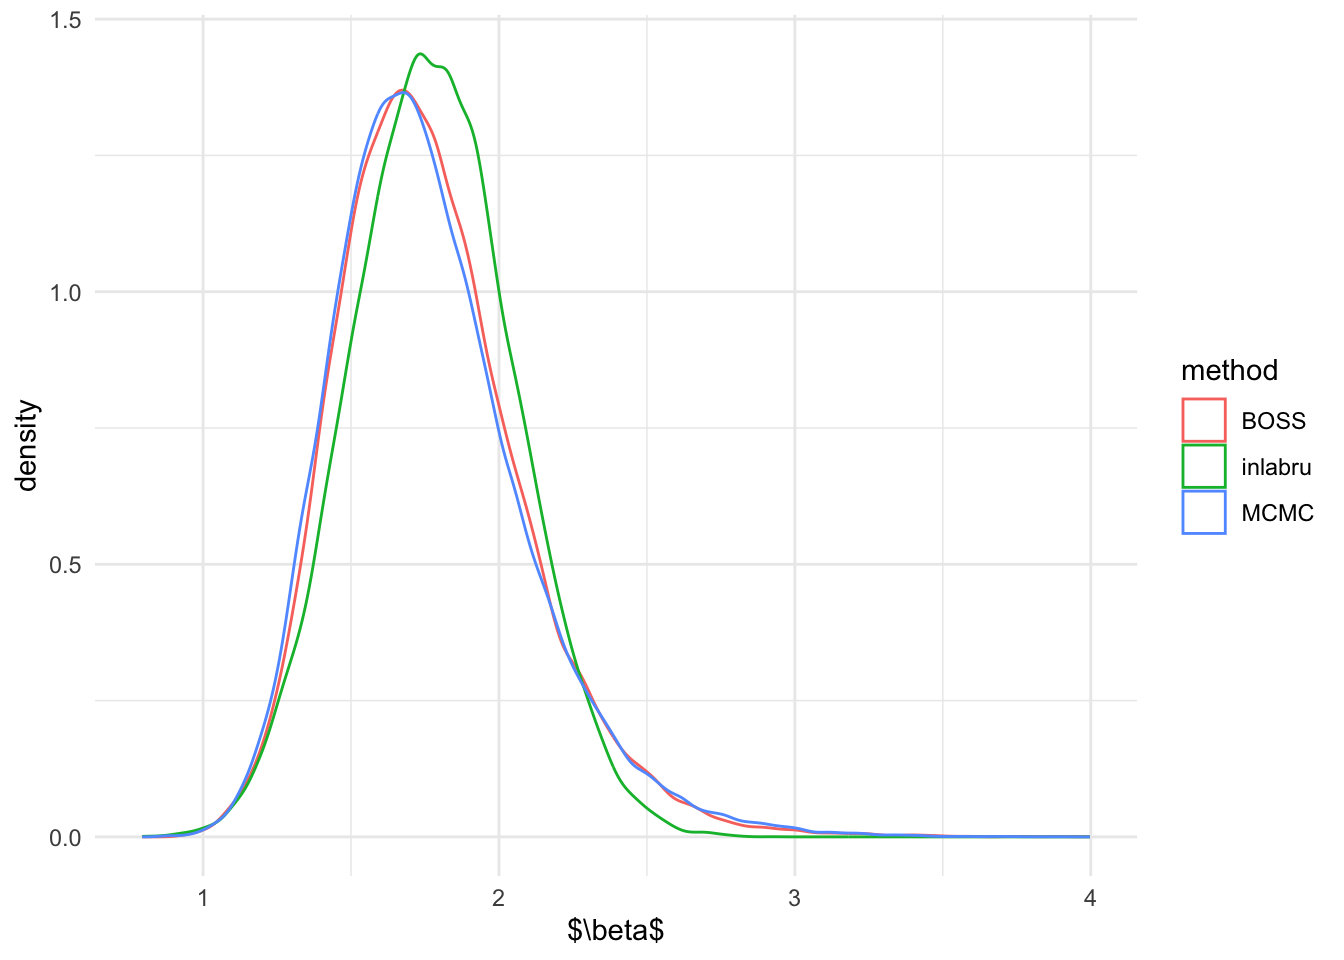
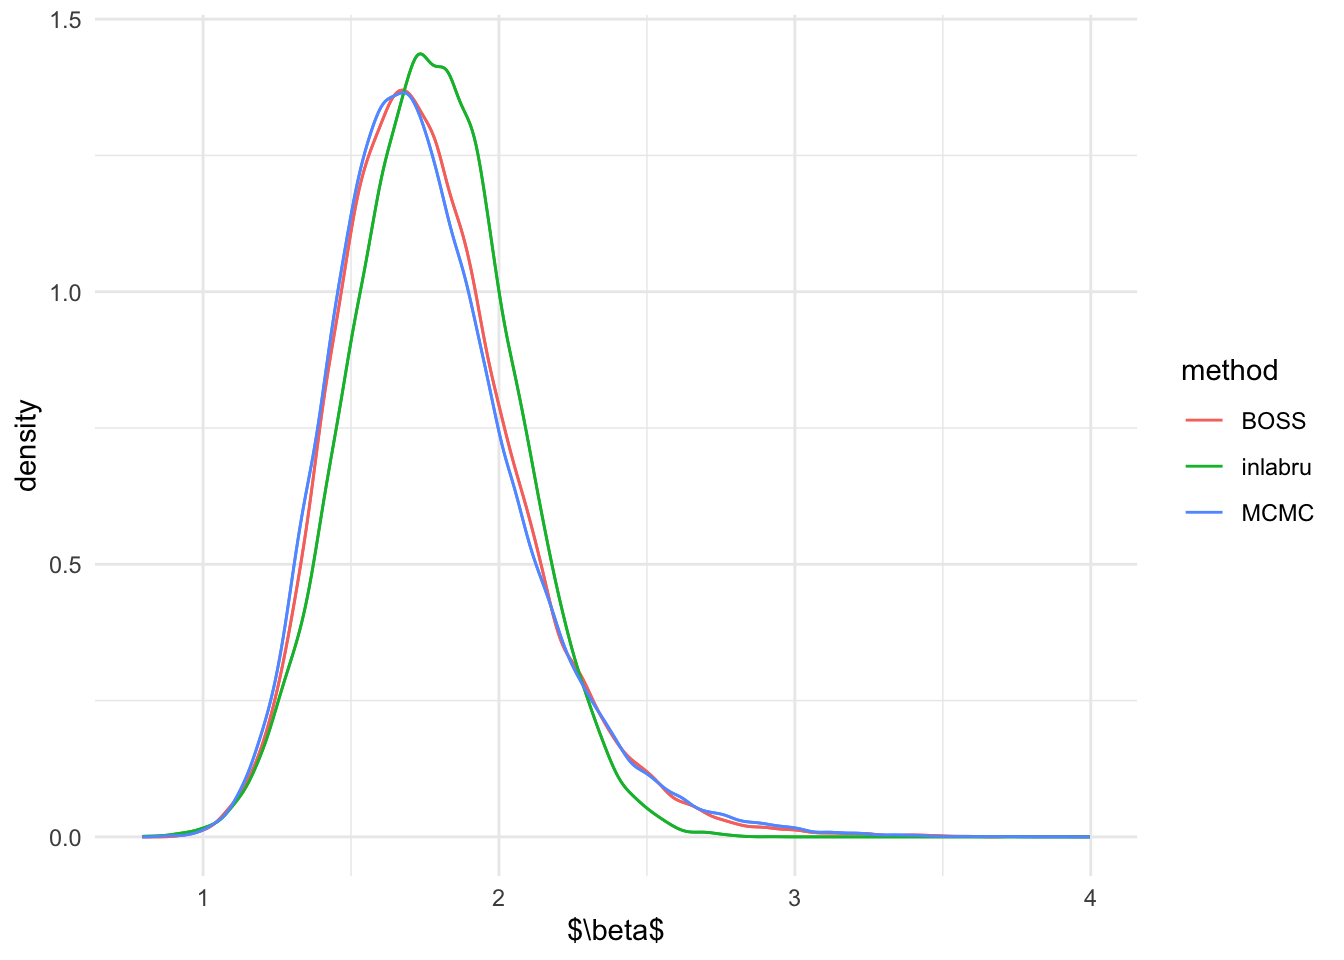
Build site.

diff --git a/docs/sim3.html b/docs/sim3.html
@@ -531,15 +531,15 @@ project makes it easier to run your code on other machines.</p>
 <div class="panel panel-default">
 <div class="panel-heading">
 <p class="panel-title">
-<a data-toggle="collapse" data-parent="#workflowr-checks" href="#strongRepositoryversionstrongahrefhttpsgithubcomAgueroZZBOSSwebsitetreec72ffd469fa4fa47b5e3c9f97cf1fa0dbcffad04targetblankc72ffd4a">
+<a data-toggle="collapse" data-parent="#workflowr-checks" href="#strongRepositoryversionstrongahrefhttpsgithubcomAgueroZZBOSSwebsitetree8f83f92d6843e2d8354a4853941f6b696d11c5b3targetblank8f83f92a">
 <span class="glyphicon glyphicon-ok text-success"
 aria-hidden="true"></span> <strong>Repository version:</strong>
-<a href="https://github.com/AgueroZZ/BOSS_website/tree/c72ffd469fa4fa47b5e3c9f97cf1fa0dbcffad04" target="_blank">c72ffd4</a>
+<a href="https://github.com/AgueroZZ/BOSS_website/tree/8f83f92d6843e2d8354a4853941f6b696d11c5b3" target="_blank">8f83f92</a>
 </a>
 </p>
 </div>
 <div
[2 lines of base64/hex data omitted]
 class="panel-collapse collapse">
 <div class="panel-body">
 <p>
@@ -549,7 +549,7 @@ reproducibility.
 </p>
 <p>
 The results in this page were generated with repository version
-<a href="https://github.com/AgueroZZ/BOSS_website/tree/c72ffd469fa4fa47b5e3c9f97cf1fa0dbcffad04" target="_blank">c72ffd4</a>.
+<a href="https://github.com/AgueroZZ/BOSS_website/tree/8f83f92d6843e2d8354a4853941f6b696d11c5b3" target="_blank">8f83f92</a>.
 See the <em>Past versions</em> tab to see a history of the changes made
 to the R Markdown and HTML files.
 </p>
@@ -568,6 +568,7 @@ Ignored files:
     Ignored:    .Rhistory
     Ignored:    .Rproj.user/
     Ignored:    analysis/.DS_Store
+    Ignored:    analysis/figure/
     Ignored:    data/.DS_Store
     Ignored:    data/dimension/
     Ignored:    data/sim3/
@@ -618,6 +619,40 @@ Message
 </tr>
 </thead>
 <tbody>
+<tr>
+<td>
+Rmd
+</td>
+<td>
+<a href="https://github.com/AgueroZZ/BOSS_website/blob/8f83f92d6843e2d8354a4853941f6b696d11c5b3/analysis/sim3.Rmd" target="_blank">8f83f92</a>
+</td>
+<td>
+david.li
+</td>
+<td>
+2025-05-09
+</td>
+<td>
+wflow_publish("analysis/sim3.Rmd")
+</td>
+</tr>
+<tr>
+<td>
+html
+</td>
+<td>
+<a href="https://rawcdn.githack.com/AgueroZZ/BOSS_website/acac9baaecf3ae772ff683dccc24e7ff823a432a/docs/sim3.html" target="_blank">acac9ba</a>
+</td>
+<td>
+david.li
+</td>
+<td>
+2025-05-09
+</td>
+<td>
+Build site.
+</td>
+</tr>
 <tr>
 <td>
 Rmd
@@ -1226,7 +1261,14 @@ beta_marginal &lt;- data.frame(beta = c(inla.samples.b, samples_BOSS_modal[,2], 
                                            length(samples_BOSS_modal[,2]),  
                                            length(MCMC_samp$b))))</code></pre>
 <p>Plot the marginal posterior densities</p>
-<pre class="r"><code>ggplot(R_marginal, aes(R)) + geom_density(aes(color = method)) + theme_minimal() + xlab(&#39;$R$&#39;)</code></pre>
+<pre class="r"><code>ggplot(R_marginal, aes(R)) + geom_density(aes(color = method), show_guide = F) +
+  stat_density(aes(x = R, colour = method),
+                  geom=&quot;line&quot;,position=&quot;identity&quot;) + theme_minimal() + xlab(&#39;$R$&#39;)</code></pre>
+<pre><code>Warning: The `show_guide` argument of `layer()` is deprecated as of ggplot2 2.0.0.
+ℹ Please use the `show.legend` argument instead.
+This warning is displayed once every 8 hours.
+Call `lifecycle::last_lifecycle_warnings()` to see where this warning was
+generated.</code></pre>
 <p><img src="figure/sim3.Rmd/unnamed-chunk-9-1.png" width="672" style="display: block; margin: auto;" /></p>
 <p>
 <button type="button" class="btn btn-default btn-xs btn-workflowr btn-workflowr-fig" data-toggle="collapse" data-target="#fig-unnamed-chunk-9-1">
@@ -1250,6 +1292,17 @@ Date
 </tr>
 </thead>
 <tbody>
+<tr>
+<td>
+<a href="https://github.com/AgueroZZ/BOSS_website/blob/acac9baaecf3ae772ff683dccc24e7ff823a432a/docs/figure/sim3.Rmd/unnamed-chunk-9-1.png" target="_blank">acac9ba</a>
+</td>
+<td>
+david.li
+</td>
+<td>
+2025-05-09
+</td>
+</tr>
 <tr>
 <td>
 <a href="https://github.com/AgueroZZ/BOSS_website/blob/1881d2e4f0846da200d63e9b3d9a53c84381925e/docs/figure/sim3.Rmd/unnamed-chunk-9-1.png" target="_blank">1881d2e</a>
@@ -1309,7 +1362,9 @@ david.li
 </table>
 </div>
 </div>
-<pre class="r"><code>ggplot(beta_marginal, aes(beta)) + geom_density(aes(color = method)) + theme_minimal() + xlab(&#39;$\\beta$&#39;)</code></pre>
+<pre class="r"><code>ggplot(beta_marginal, aes(beta)) + geom_density(aes(color = method), show_guide = F) +
+  stat_density(aes(x = beta, colour = method),
+                  geom=&quot;line&quot;,position=&quot;identity&quot;) + theme_minimal() + xlab(&#39;$\\beta$&#39;)</code></pre>
 <p><img src="figure/sim3.Rmd/unnamed-chunk-10-1.png" width="672" style="display: block; margin: auto;" /></p>
 <p>
 <button type="button" class="btn btn-default btn-xs btn-workflowr btn-workflowr-fig" data-toggle="collapse" data-target="#fig-unnamed-chunk-10-1">
@@ -1333,6 +1388,17 @@ Date
 </tr>
 </thead>
 <tbody>
+<tr>
+<td>
+<a href="https://github.com/AgueroZZ/BOSS_website/blob/acac9baaecf3ae772ff683dccc24e7ff823a432a/docs/figure/sim3.Rmd/unnamed-chunk-10-1.png" target="_blank">acac9ba</a>
+</td>
+<td>
+david.li
+</td>
+<td>
+2025-05-09
+</td>
+</tr>
 <tr>
 <td>
 <a href="https://github.com/AgueroZZ/BOSS_website/blob/1881d2e4f0846da200d63e9b3d9a53c84381925e/docs/figure/sim3.Rmd/unnamed-chunk-10-1.png" target="_blank">1881d2e</a>
@@ -1890,6 +1956,17 @@ Date
 <tbody>
 <tr>
 <td>
+<a href="https://github.com/AgueroZZ/BOSS_website/blob/acac9baaecf3ae772ff683dccc24e7ff823a432a/docs/figure/sim3.Rmd/unnamed-chunk-21-1.png" target="_blank">acac9ba</a>
+</td>
+<td>
+david.li
+</td>
+<td>
+2025-05-09
+</td>
+</tr>
+<tr>
+<td>
 <a href="https://github.com/AgueroZZ/BOSS_website/blob/1881d2e4f0846da200d63e9b3d9a53c84381925e/docs/figure/sim3.Rmd/unnamed-chunk-21-1.png" target="_blank">1881d2e</a>
 </td>
 <td>
@@ -1948,6 +2025,17 @@ Date
 <tbody>
 <tr>
 <td>
+<a href="https://github.com/AgueroZZ/BOSS_website/blob/acac9baaecf3ae772ff683dccc24e7ff823a432a/docs/figure/sim3.Rmd/unnamed-chunk-21-2.png" target="_blank">acac9ba</a>
+</td>
+<td>
+david.li
+</td>
+<td>
+2025-05-09
+</td>
+</tr>
+<tr>
+<td>
 <a href="https://github.com/AgueroZZ/BOSS_website/blob/1881d2e4f0846da200d63e9b3d9a53c84381925e/docs/figure/sim3.Rmd/unnamed-chunk-21-2.png" target="_blank">1881d2e</a>
 </td>
 <td>
@@ -1982,6 +2070,43 @@ p_b &lt;- p_b + geom_density(color = &#39;violet&#39;)
 
 p_b</code></pre>
 <p><img src="figure/sim3.Rmd/unnamed-chunk-21-3.png" width="672" style="display: block; margin: auto;" /></p>
+<p>
+<button type="button" class="btn btn-default btn-xs btn-workflowr btn-workflowr-fig" data-toggle="collapse" data-target="#fig-unnamed-chunk-21-3">
+Past versions of unnamed-chunk-21-3.png
+</button>
+</p>
+<div id="fig-unnamed-chunk-21-3" class="collapse">
+<div class="table-responsive">
+<table class="table table-condensed table-hover">
+<thead>
+<tr>
+<th>
+Version
+</th>
+<th>
+Author
+</th>
+<th>
+Date
+</th>
+</tr>
+</thead>
+<tbody>
+<tr>
+<td>
+<a href="https://github.com/AgueroZZ/BOSS_website/blob/acac9baaecf3ae772ff683dccc24e7ff823a432a/docs/figure/sim3.Rmd/unnamed-chunk-21-3.png" target="_blank">acac9ba</a>
+</td>
+<td>
+david.li
+</td>
+<td>
+2025-05-09
+</td>
+</tr>
+</tbody>
+</table>
+</div>
+</div>
 <p>Compared to the case when <span class="math inline">\(n =
 200\)</span>, having a smaller sample size causes BOSS to have inferior
 accuracy. Specifically, surrogate posterior from BOSS (red densities) is
@@ -2032,33 +2157,33 @@ loaded via a namespace (and not attached):
  [7] clue_0.3-65         git2r_0.33.0        matrixStats_1.4.1  
 [10] e1071_1.7-16        compiler_4.4.1      getPass_0.2-4      
 [13] loo_2.8.0           callr_3.7.6         vctrs_0.6.5        
-[16] rmutil_1.1.10       pkgconfig_2.0.3     fastmap_1.2.0      
-[19] labeling_0.4.3      utf8_1.2.4          promises_1.3.0     
-[22] rmarkdown_2.28      tzdb_0.4.0          ps_1.8.0           
-[25] MatrixModels_0.5-3  xfun_0.47           cachem_1.1.0       
-[28] jsonlite_1.8.9      highr_0.11          later_1.3.2        
-[31] parallel_4.4.1      cluster_2.1.6       R6_2.5.1           
-[34] bslib_0.8.0         stringi_1.8.4       rpart_4.1.23       
-[37] numDeriv_2016.8-1.1 jquerylib_0.1.4     Rcpp_1.0.13        
-[40] knitr_1.48          filehash_2.4-6      httpuv_1.6.15      
-[43] splines_4.4.1       timechange_0.3.0    tidyselect_1.2.1   
-[46] rstudioapi_0.16.0   yaml_2.3.10         timeDate_4041.110  
-[49] codetools_0.2-20    processx_3.8.4      pkgbuild_1.4.4     
-[52] lattice_0.22-6      plyr_1.8.9          withr_3.0.1        
-[55] evaluate_1.0.0      stable_1.1.6        sf_1.0-19          
-[58] units_0.8-5         proxy_0.4-27        RcppParallel_5.1.10
-[61] pillar_1.9.0        whisker_0.4.1       KernSmooth_2.23-24 
-[64] stats4_4.4.1        sn_2.1.1            generics_0.1.3     
-[67] rprojroot_2.0.4     hms_1.1.3           munsell_0.5.1      
-[70] scales_1.3.0        timeSeries_4041.111 class_7.3-22       
-[73] glue_1.7.0          statip_0.2.3        tools_4.4.1        
-[76] spatial_7.3-17      fBasics_4041.97     fs_1.6.4           
-[79] grid_4.4.1          QuickJSR_1.6.0      colorspace_2.1-1   
-[82] cli_3.6.3           fansi_1.0.6         viridisLite_0.4.2  
-[85] gtable_0.3.5        stabledist_0.7-2    sass_0.4.9         
-[88] digest_0.6.37       classInt_0.4-10     farver_2.1.2       
-[91] htmltools_0.5.8.1   lifecycle_1.0.4     httr_1.4.7         
-[94] MASS_7.3-61        </code></pre>
+[16] rmutil_1.1.10       crayon_1.5.3        pkgconfig_2.0.3    
+[19] fastmap_1.2.0       labeling_0.4.3      utf8_1.2.4         
+[22] promises_1.3.0      rmarkdown_2.28      tzdb_0.4.0         
+[25] ps_1.8.0            MatrixModels_0.5-3  xfun_0.47          
+[28] cachem_1.1.0        jsonlite_1.8.9      highr_0.11         
+[31] later_1.3.2         parallel_4.4.1      cluster_2.1.6      
+[34] R6_2.5.1            bslib_0.8.0         stringi_1.8.4      
+[37] rpart_4.1.23        numDeriv_2016.8-1.1 jquerylib_0.1.4    
+[40] Rcpp_1.0.13         knitr_1.48          filehash_2.4-6     
+[43] httpuv_1.6.15       splines_4.4.1       timechange_0.3.0   
+[46] tidyselect_1.2.1    rstudioapi_0.16.0   yaml_2.3.10        
+[49] timeDate_4041.110   codetools_0.2-20    processx_3.8.4     
+[52] pkgbuild_1.4.4      lattice_0.22-6      plyr_1.8.9         
+[55] withr_3.0.1         evaluate_1.0.0      stable_1.1.6       
+[58] sf_1.0-19           units_0.8-5         proxy_0.4-27       
+[61] RcppParallel_5.1.10 pillar_1.9.0        whisker_0.4.1      
+[64] KernSmooth_2.23-24  stats4_4.4.1        sn_2.1.1           
+[67] generics_0.1.3      rprojroot_2.0.4     hms_1.1.3          
+[70] munsell_0.5.1       scales_1.3.0        timeSeries_4041.111
+[73] class_7.3-22        glue_1.7.0          statip_0.2.3       
+[76] tools_4.4.1         spatial_7.3-17      fBasics_4041.97    
+[79] fs_1.6.4            grid_4.4.1          QuickJSR_1.6.0     
+[82] colorspace_2.1-1    cli_3.6.3           fansi_1.0.6        
+[85] viridisLite_0.4.2   gtable_0.3.5        stabledist_0.7-2   
+[88] sass_0.4.9          digest_0.6.37       classInt_0.4-10    
+[91] farver_2.1.2        htmltools_0.5.8.1   lifecycle_1.0.4    
+[94] httr_1.4.7          MASS_7.3-61        </code></pre>
 </div>
 </div>
 </div>
